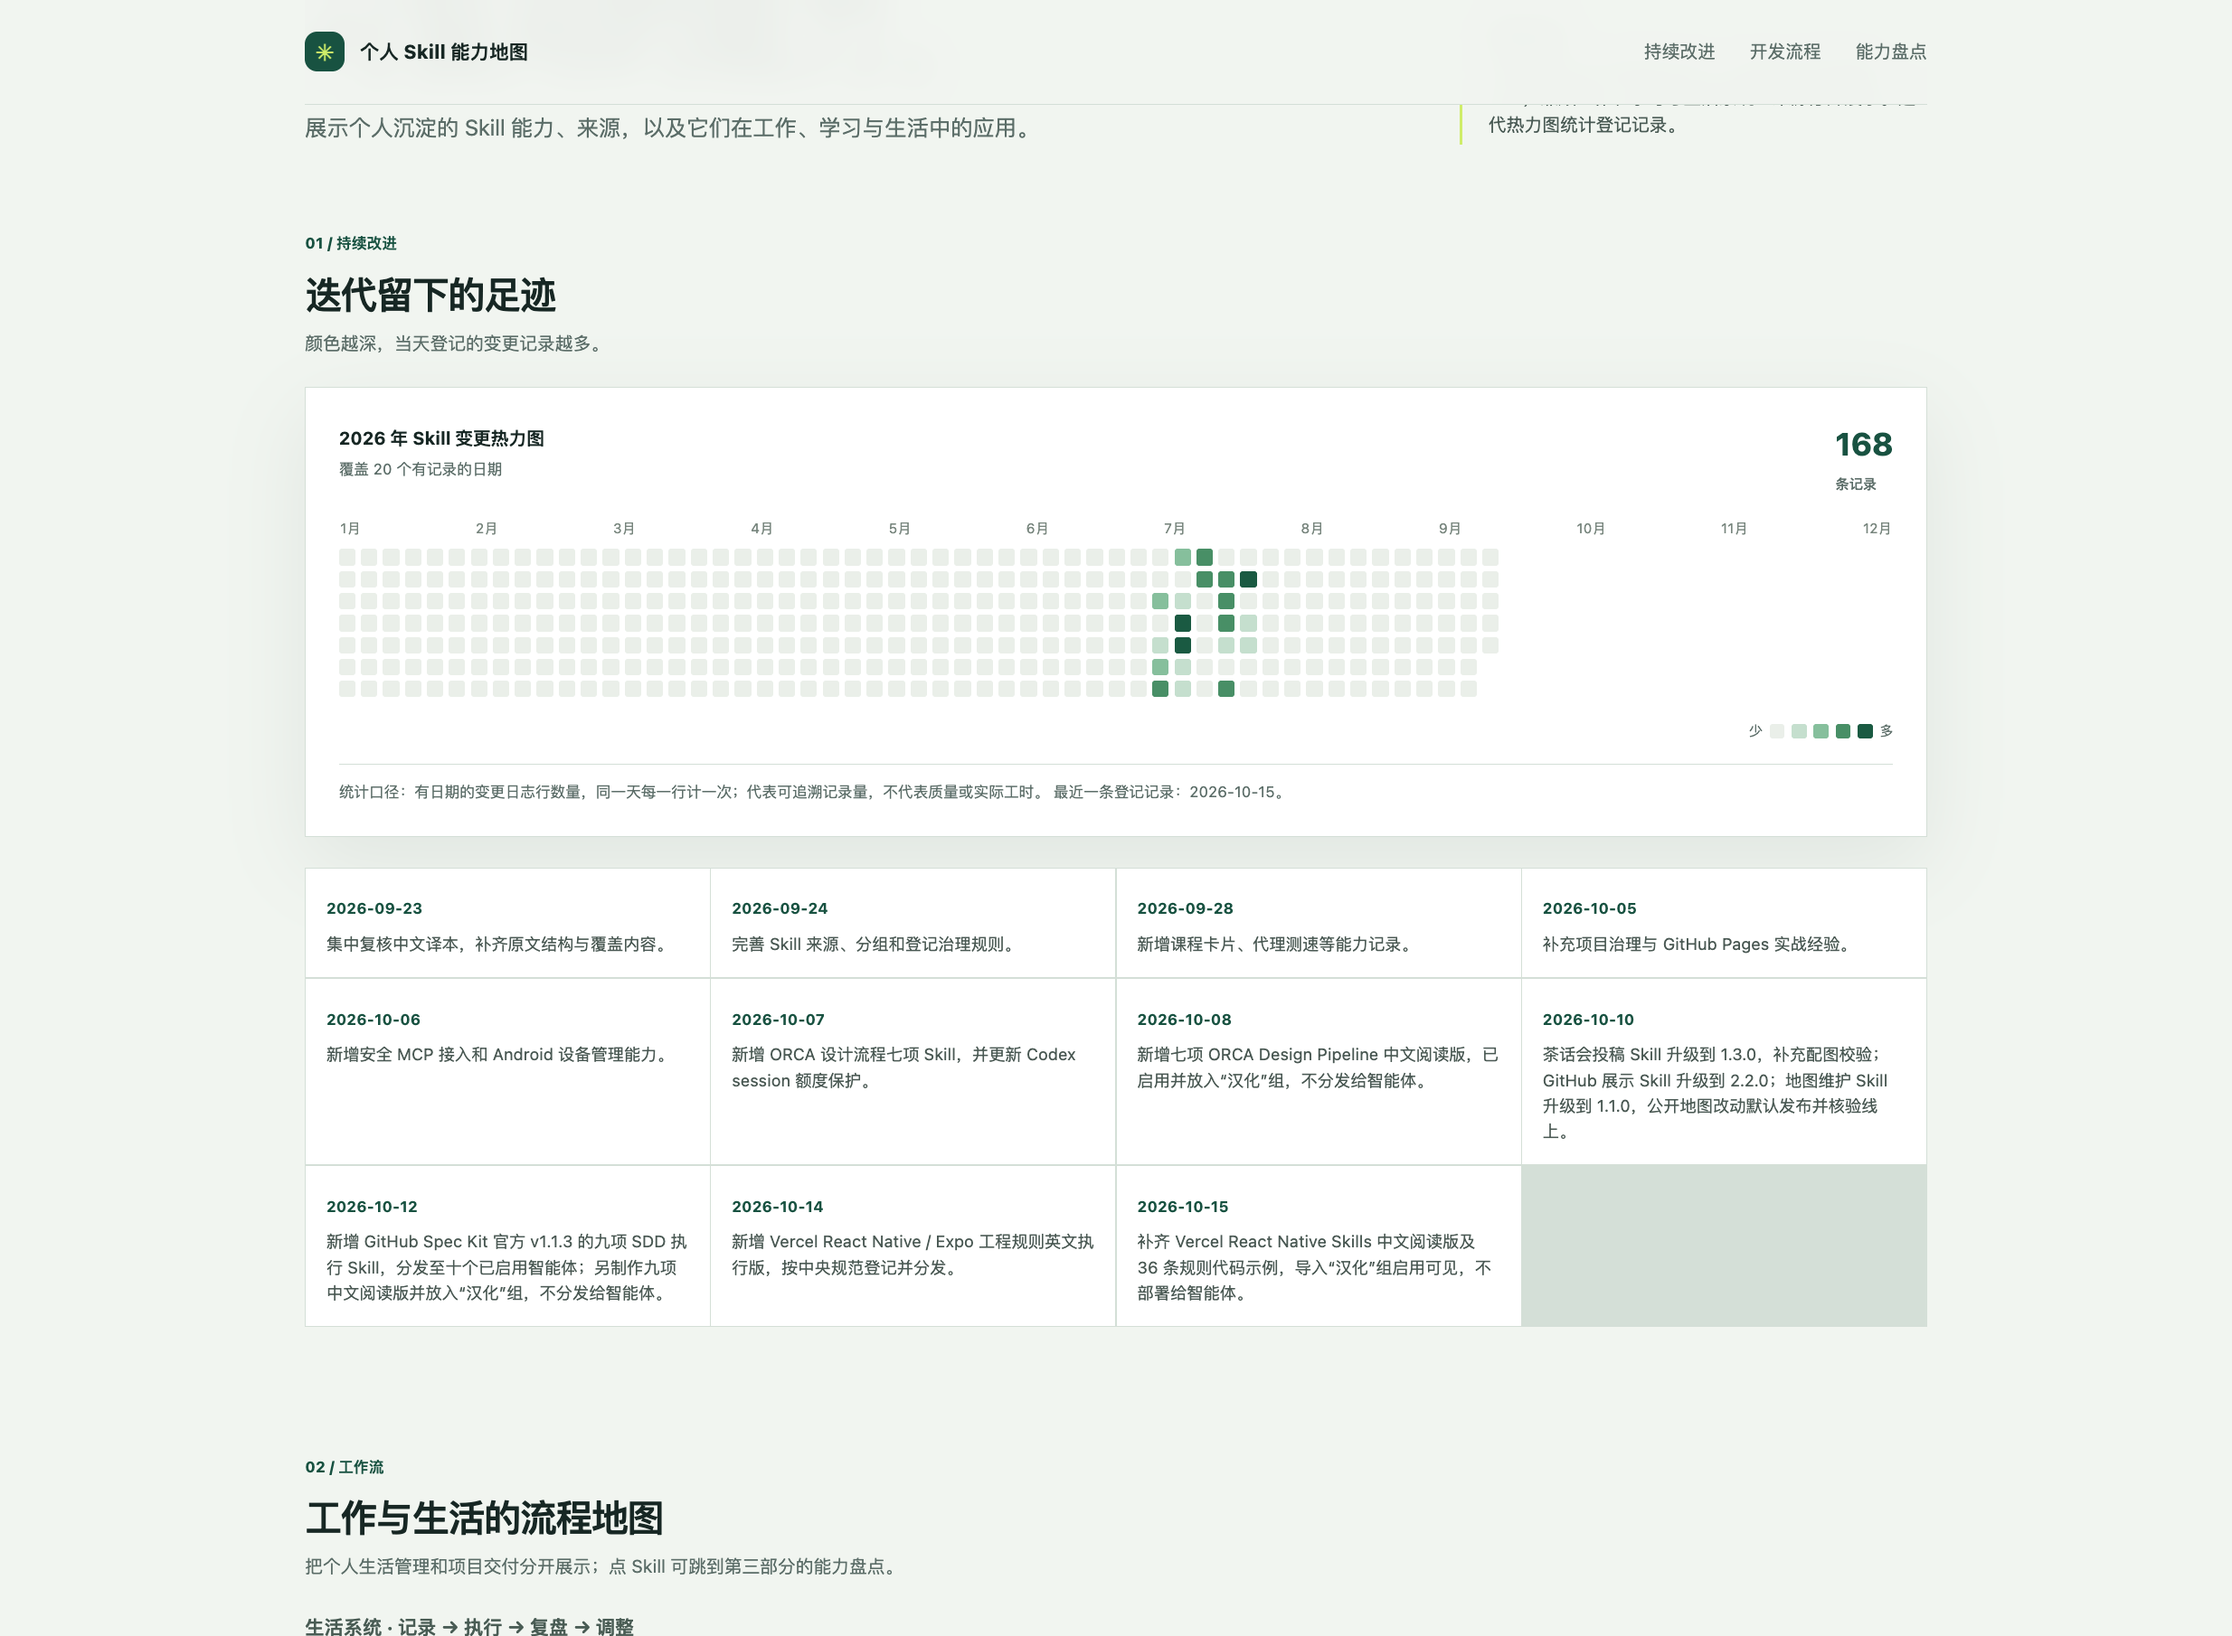
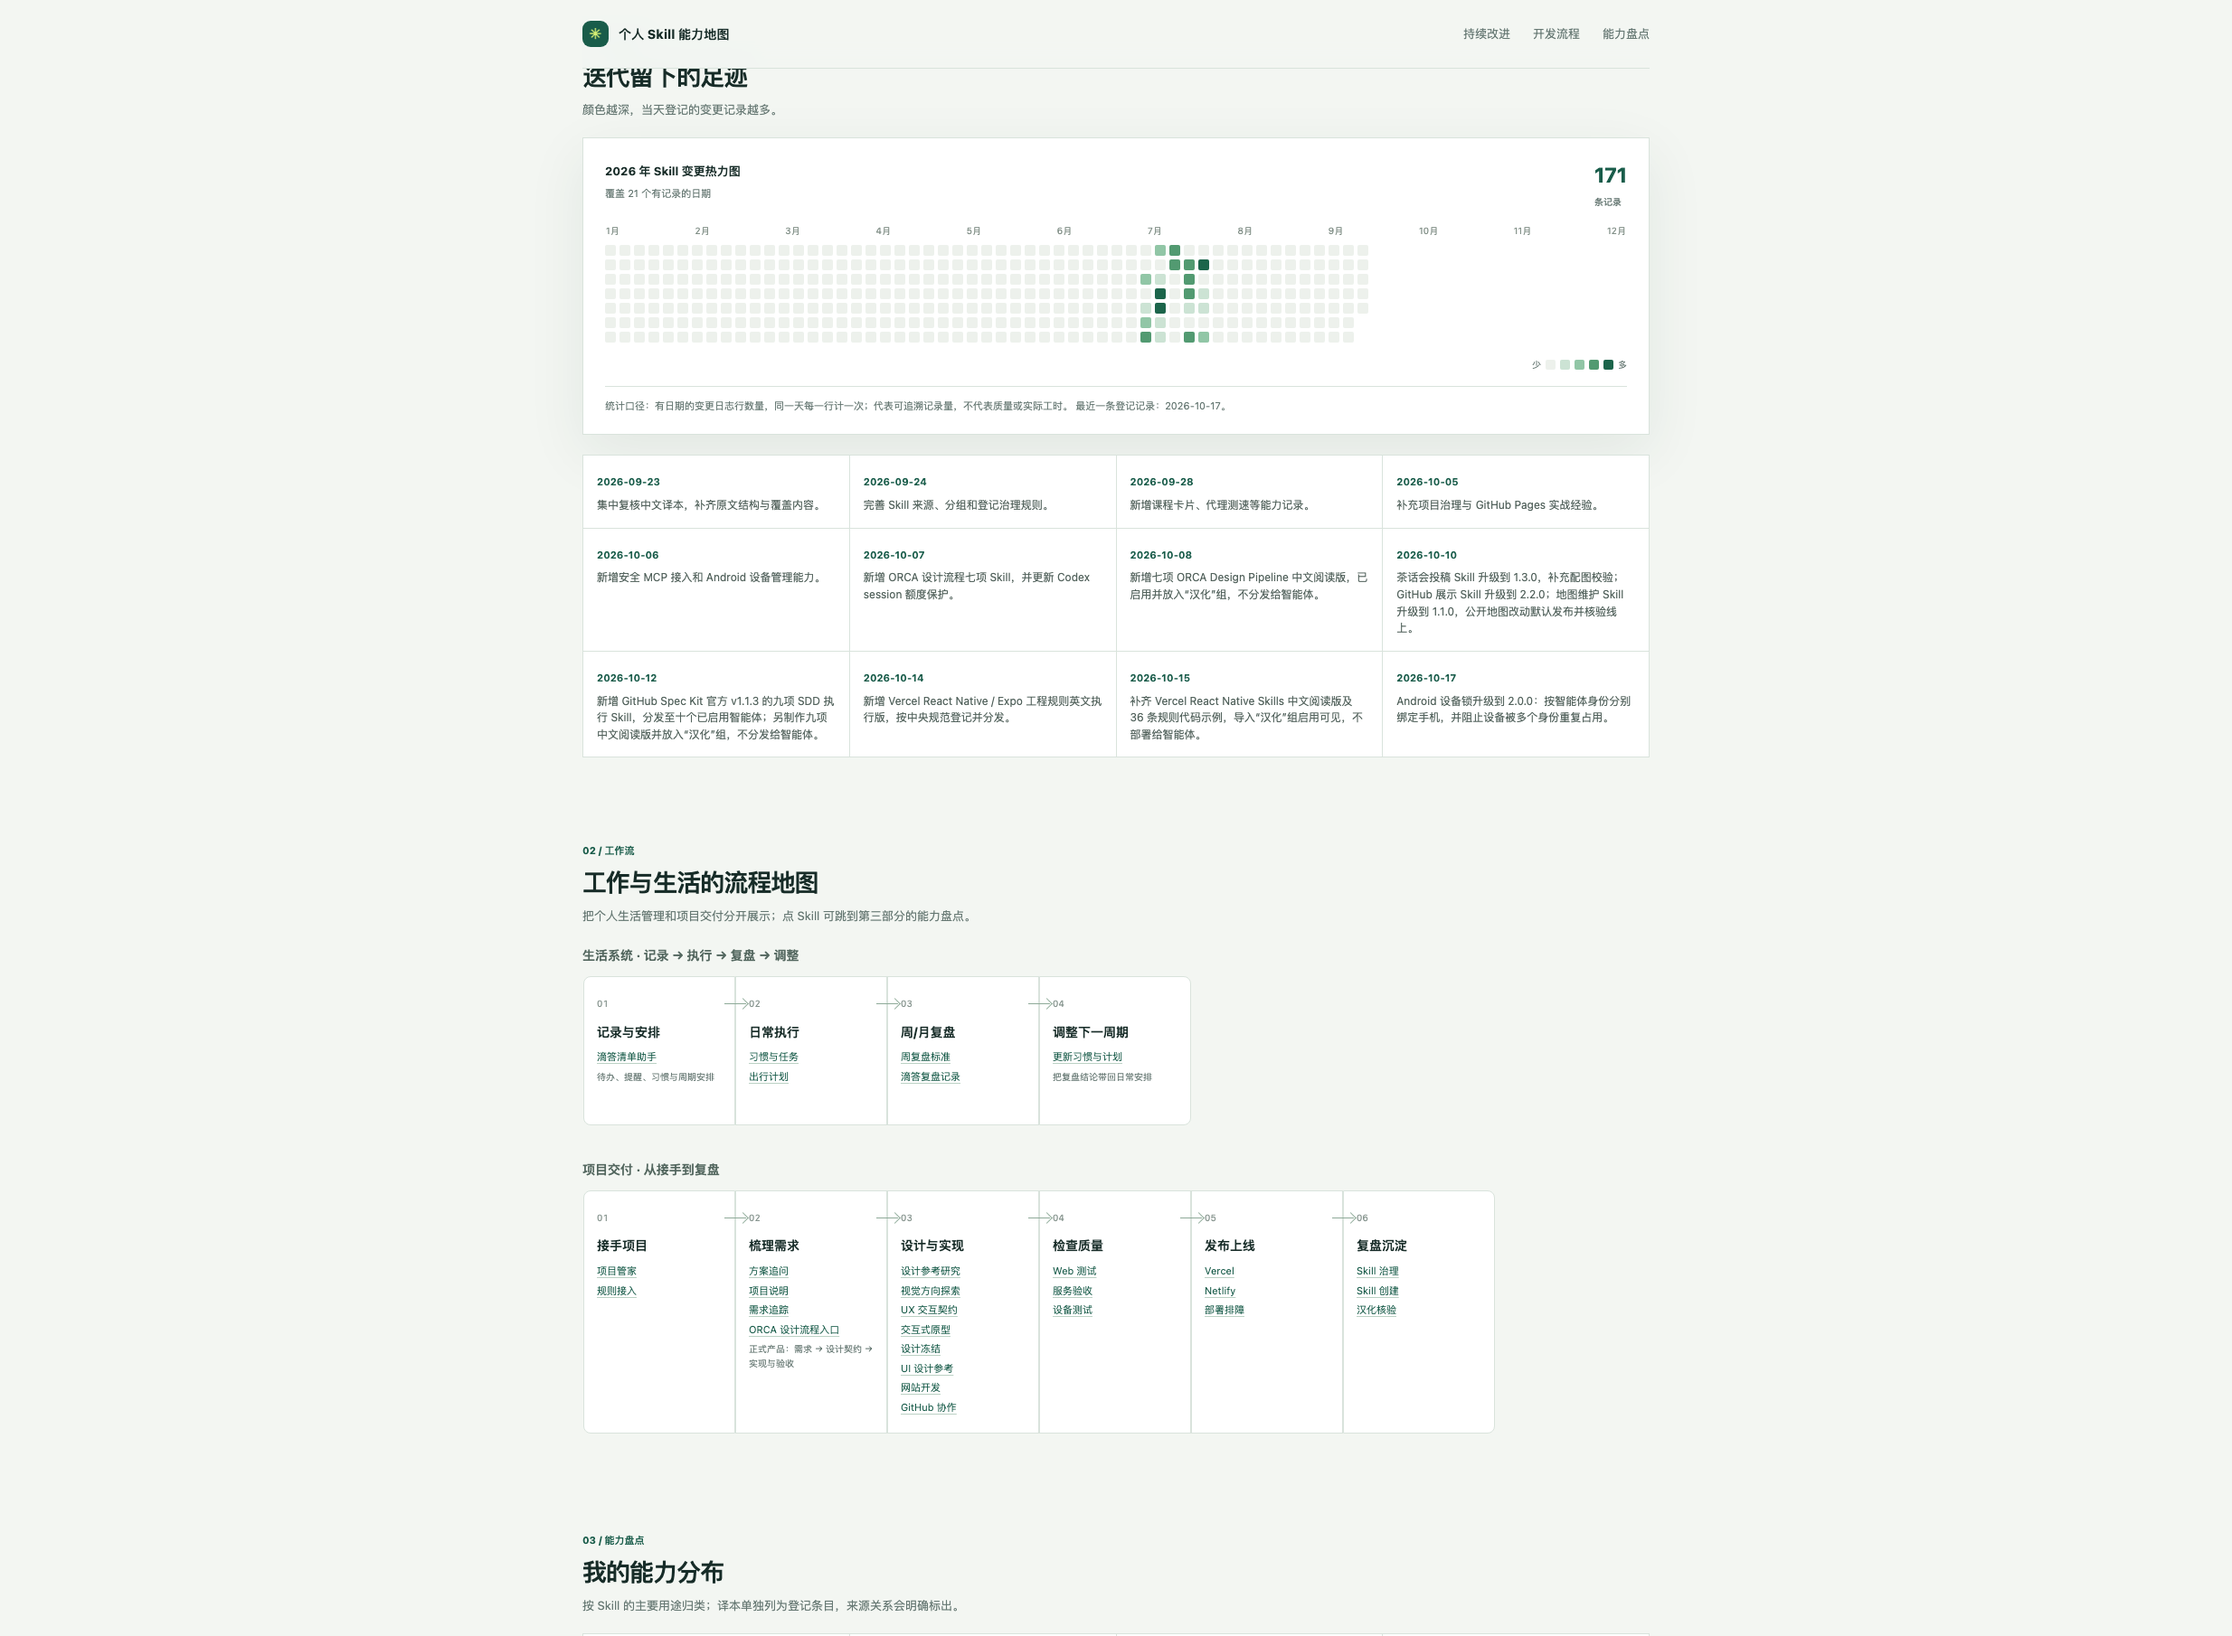
Update Android device lock skill map to v2.0.0

diff --git a/index.html b/index.html
@@ -119,7 +119,7 @@
     }
     document.getElementById('heatMonths').innerHTML=['1月','2月','3月','4月','5月','6月','7月','8月','9月','10月','11月','12月'].map(x=>`<span>${x}</span>`).join('');
     const dated=[...data.events].sort((a,b)=>b.date.localeCompare(a.date));const latest=dated[0]?.date||'—';document.getElementById('heatCaption').textContent=`统计口径：${data.countDefinition} 最近一条登记记录：${latest}。`;
-    const highlights=[['2026-09-23','集中复核中文译本，补齐原文结构与覆盖内容。'],['2026-09-24','完善 Skill 来源、分组和登记治理规则。'],['2026-09-28','新增课程卡片、代理测速等能力记录。'],['2026-10-05','补充项目治理与 GitHub Pages 实战经验。'],['2026-10-06','新增安全 MCP 接入和 Android 设备管理能力。'],['2026-10-07','新增 ORCA 设计流程七项 Skill，并更新 Codex session 额度保护。'],['2026-10-08','新增七项 ORCA Design Pipeline 中文阅读版，已启用并放入“汉化”组，不分发给智能体。'],['2026-10-10','茶话会投稿 Skill 升级到 1.3.0，补充配图校验；GitHub 展示 Skill 升级到 2.2.0；地图维护 Skill 升级到 1.1.0，公开地图改动默认发布并核验线上。'],['2026-10-12','新增 GitHub Spec Kit 官方 v1.1.3 的九项 SDD 执行 Skill，分发至十个已启用智能体；另制作九项中文阅读版并放入“汉化”组，不分发给智能体。'],['2026-10-14','新增 Vercel React Native / Expo 工程规则英文执行版，按中央规范登记并分发。'],['2026-10-15','补齐 Vercel React Native Skills 中文阅读版及 36 条规则代码示例，导入“汉化”组启用可见，不部署给智能体。']];
+    const highlights=[['2026-09-23','集中复核中文译本，补齐原文结构与覆盖内容。'],['2026-09-24','完善 Skill 来源、分组和登记治理规则。'],['2026-09-28','新增课程卡片、代理测速等能力记录。'],['2026-10-05','补充项目治理与 GitHub Pages 实战经验。'],['2026-10-06','新增安全 MCP 接入和 Android 设备管理能力。'],['2026-10-07','新增 ORCA 设计流程七项 Skill，并更新 Codex session 额度保护。'],['2026-10-08','新增七项 ORCA Design Pipeline 中文阅读版，已启用并放入“汉化”组，不分发给智能体。'],['2026-10-10','茶话会投稿 Skill 升级到 1.3.0，补充配图校验；GitHub 展示 Skill 升级到 2.2.0；地图维护 Skill 升级到 1.1.0，公开地图改动默认发布并核验线上。'],['2026-10-12','新增 GitHub Spec Kit 官方 v1.1.3 的九项 SDD 执行 Skill，分发至十个已启用智能体；另制作九项中文阅读版并放入“汉化”组，不分发给智能体。'],['2026-10-14','新增 Vercel React Native / Expo 工程规则英文执行版，按中央规范登记并分发。'],['2026-10-15','补齐 Vercel React Native Skills 中文阅读版及 36 条规则代码示例，导入“汉化”组启用可见，不部署给智能体。'],['2026-10-17','Android 设备锁升级到 2.0.0：按智能体身份分别绑定手机，并阻止设备被多个身份重复占用。']];
     document.getElementById('recent').innerHTML=highlights.map(([date,text])=>`<article><time>${date}</time><p>${escapeHtml(text)}</p></article>`).join('');
   }
   load().catch(err=>{document.getElementById('skillRows').innerHTML=`<tr><td colspan="5" class="empty">${escapeHtml(err.message)}。请稍后刷新页面。</td></tr>`;document.getElementById('heatSub').textContent='迭代记录暂时不可用'});

diff --git a/README.en.md b/README.en.md
@@ -24,7 +24,7 @@ Domains include life management, travel, requirements, project collaboration, UI
 
 ## Public data snapshot
 
-The public page reflects a data snapshot from **2026-10-15**, with 113 registered Skills. Translations and their English originals are listed separately. Community contributions and entries with unverified sources are labeled “Community / Unverified.”
+The public page reflects a data snapshot from **2026-10-17**, with 113 registered Skills. Translations and their English originals are listed separately. Community contributions and entries with unverified sources are labeled “Community / Unverified.”
 
 | Source | Count | Description |
 | --- | ---: | --- |

diff --git a/README.md b/README.md
@@ -24,7 +24,7 @@
 
 ## 当前公开数据
 
-公开页面的数据快照截至 **2026-10-15**，共登记 113 个 Skill。翻译版与英文原版作为独立条目展示；社区作品和来源尚未确认的条目归入“社区 / 待核验”。
+公开页面的数据快照截至 **2026-10-17**，共登记 113 个 Skill。翻译版与英文原版作为独立条目展示；社区作品和来源尚未确认的条目归入“社区 / 待核验”。
 
 | 来源 | 数量 | 说明 |
 | --- | ---: | --- |
